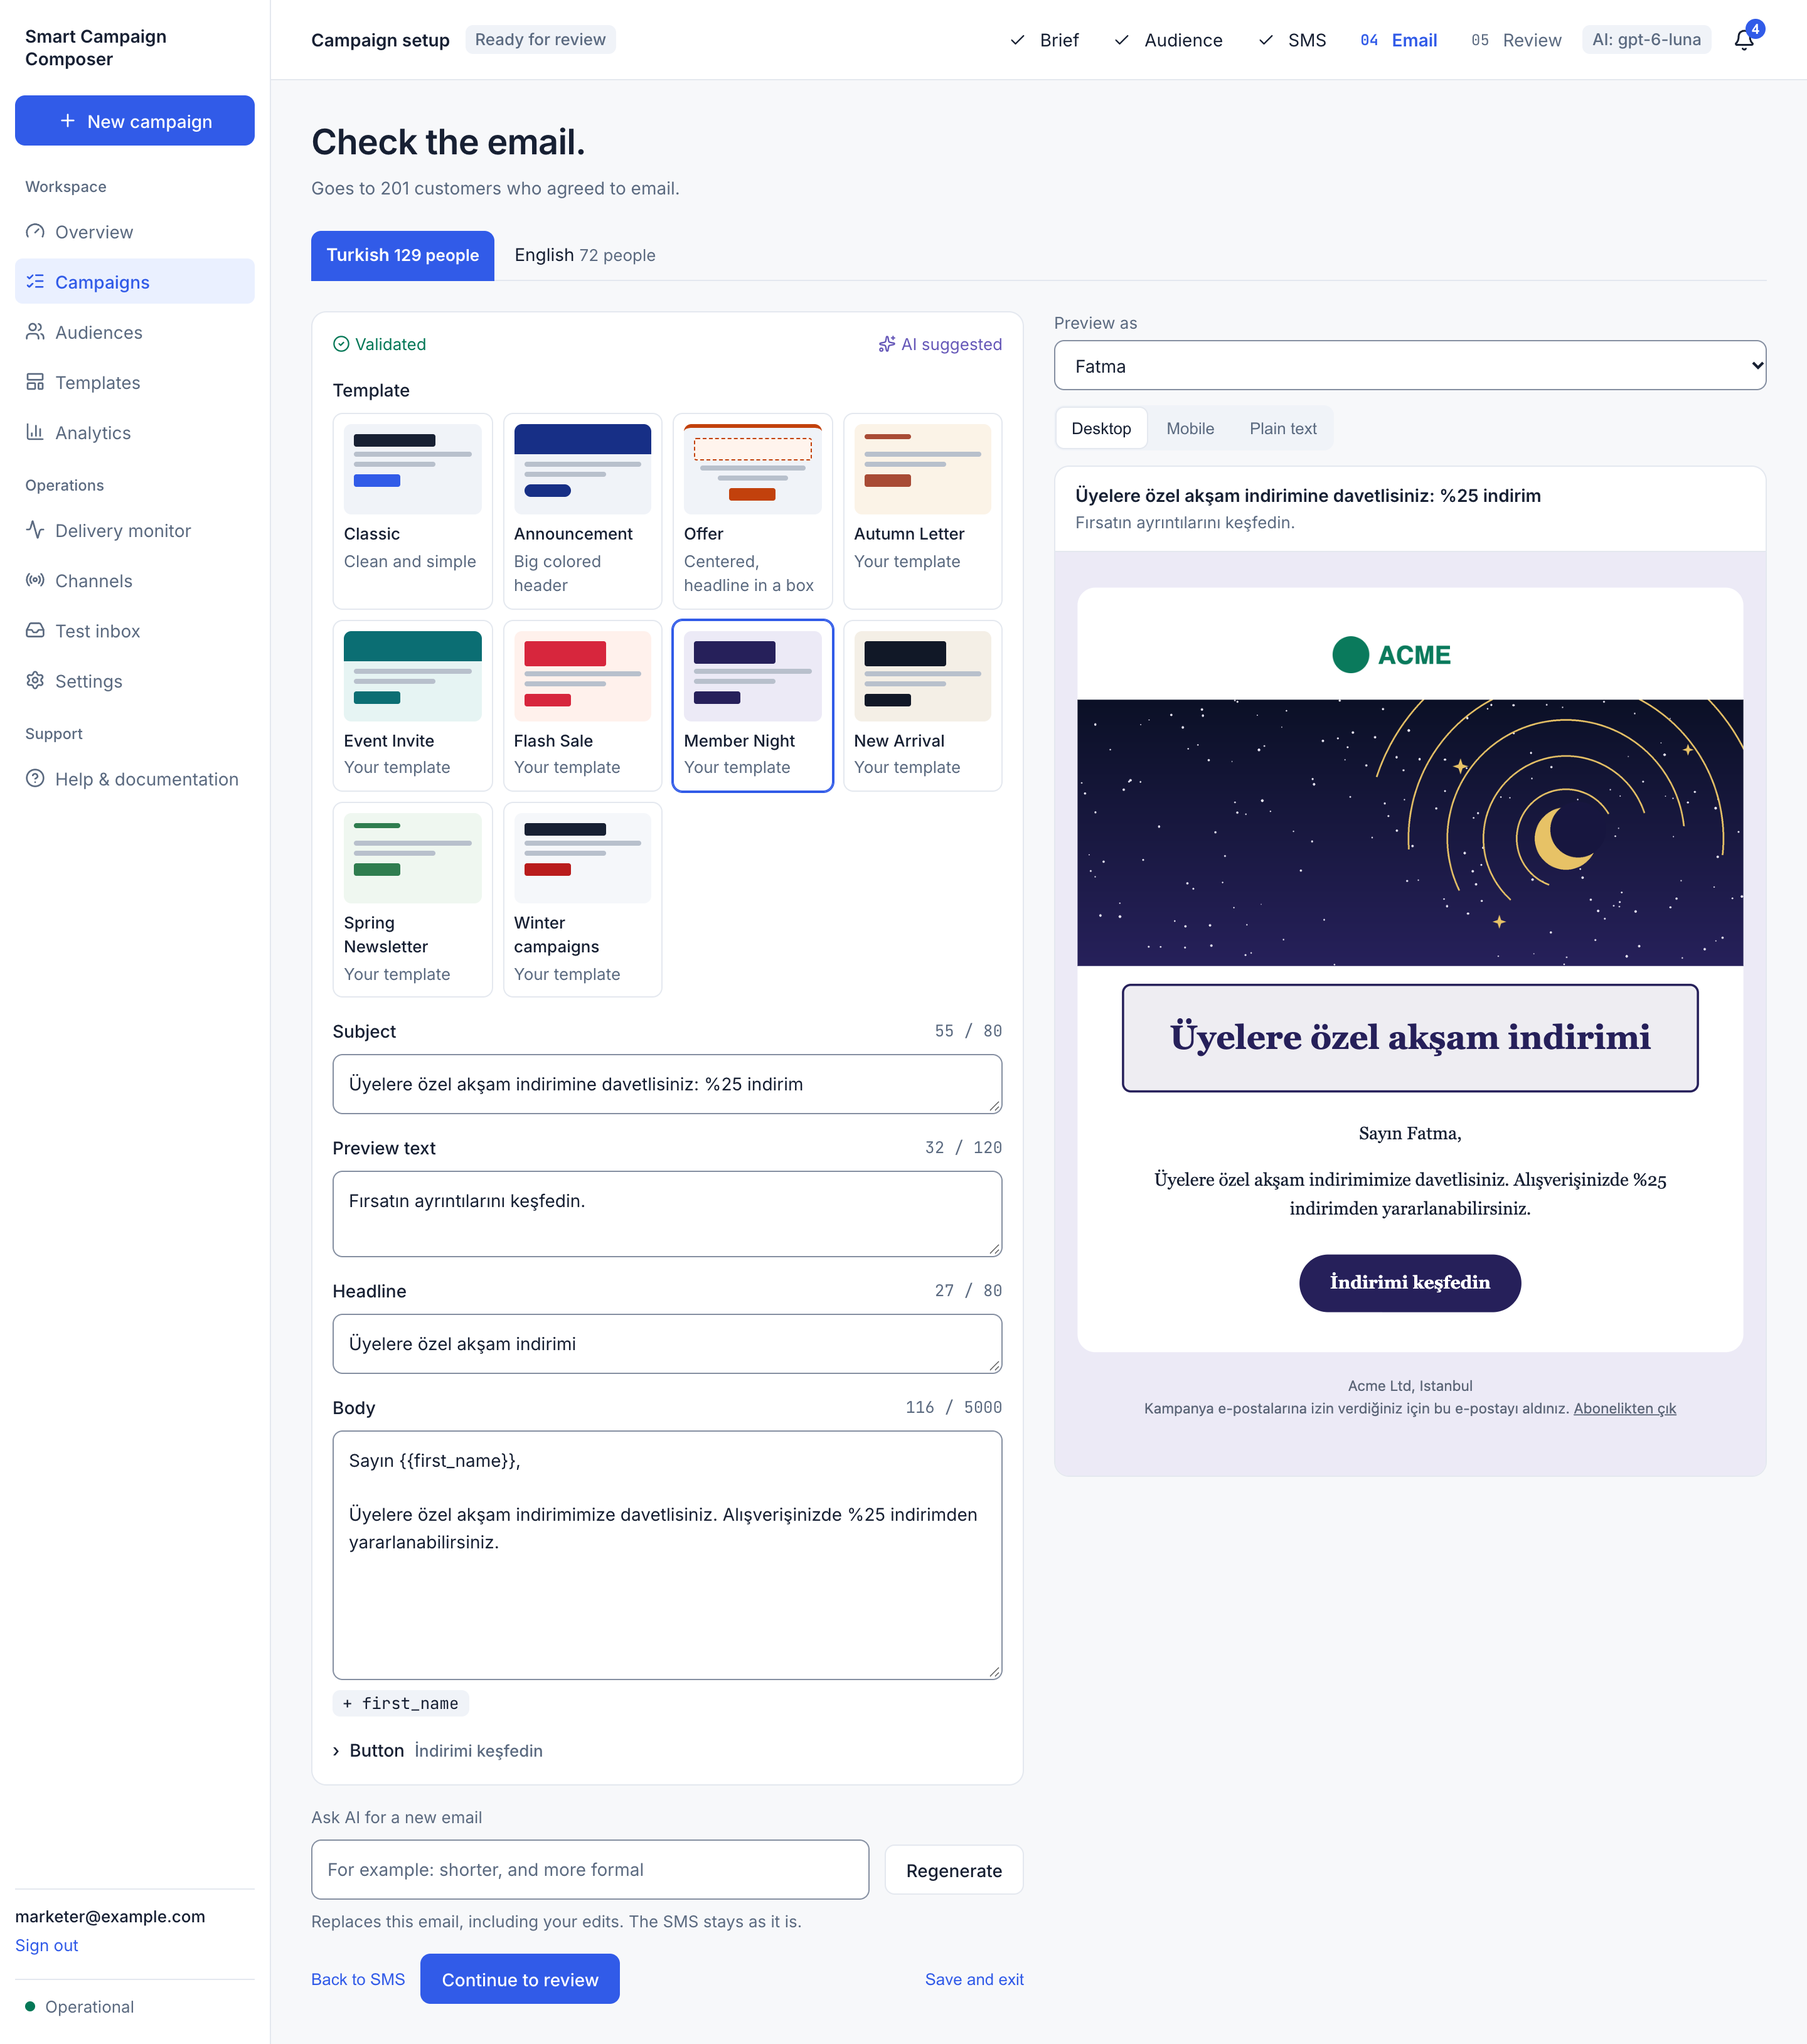
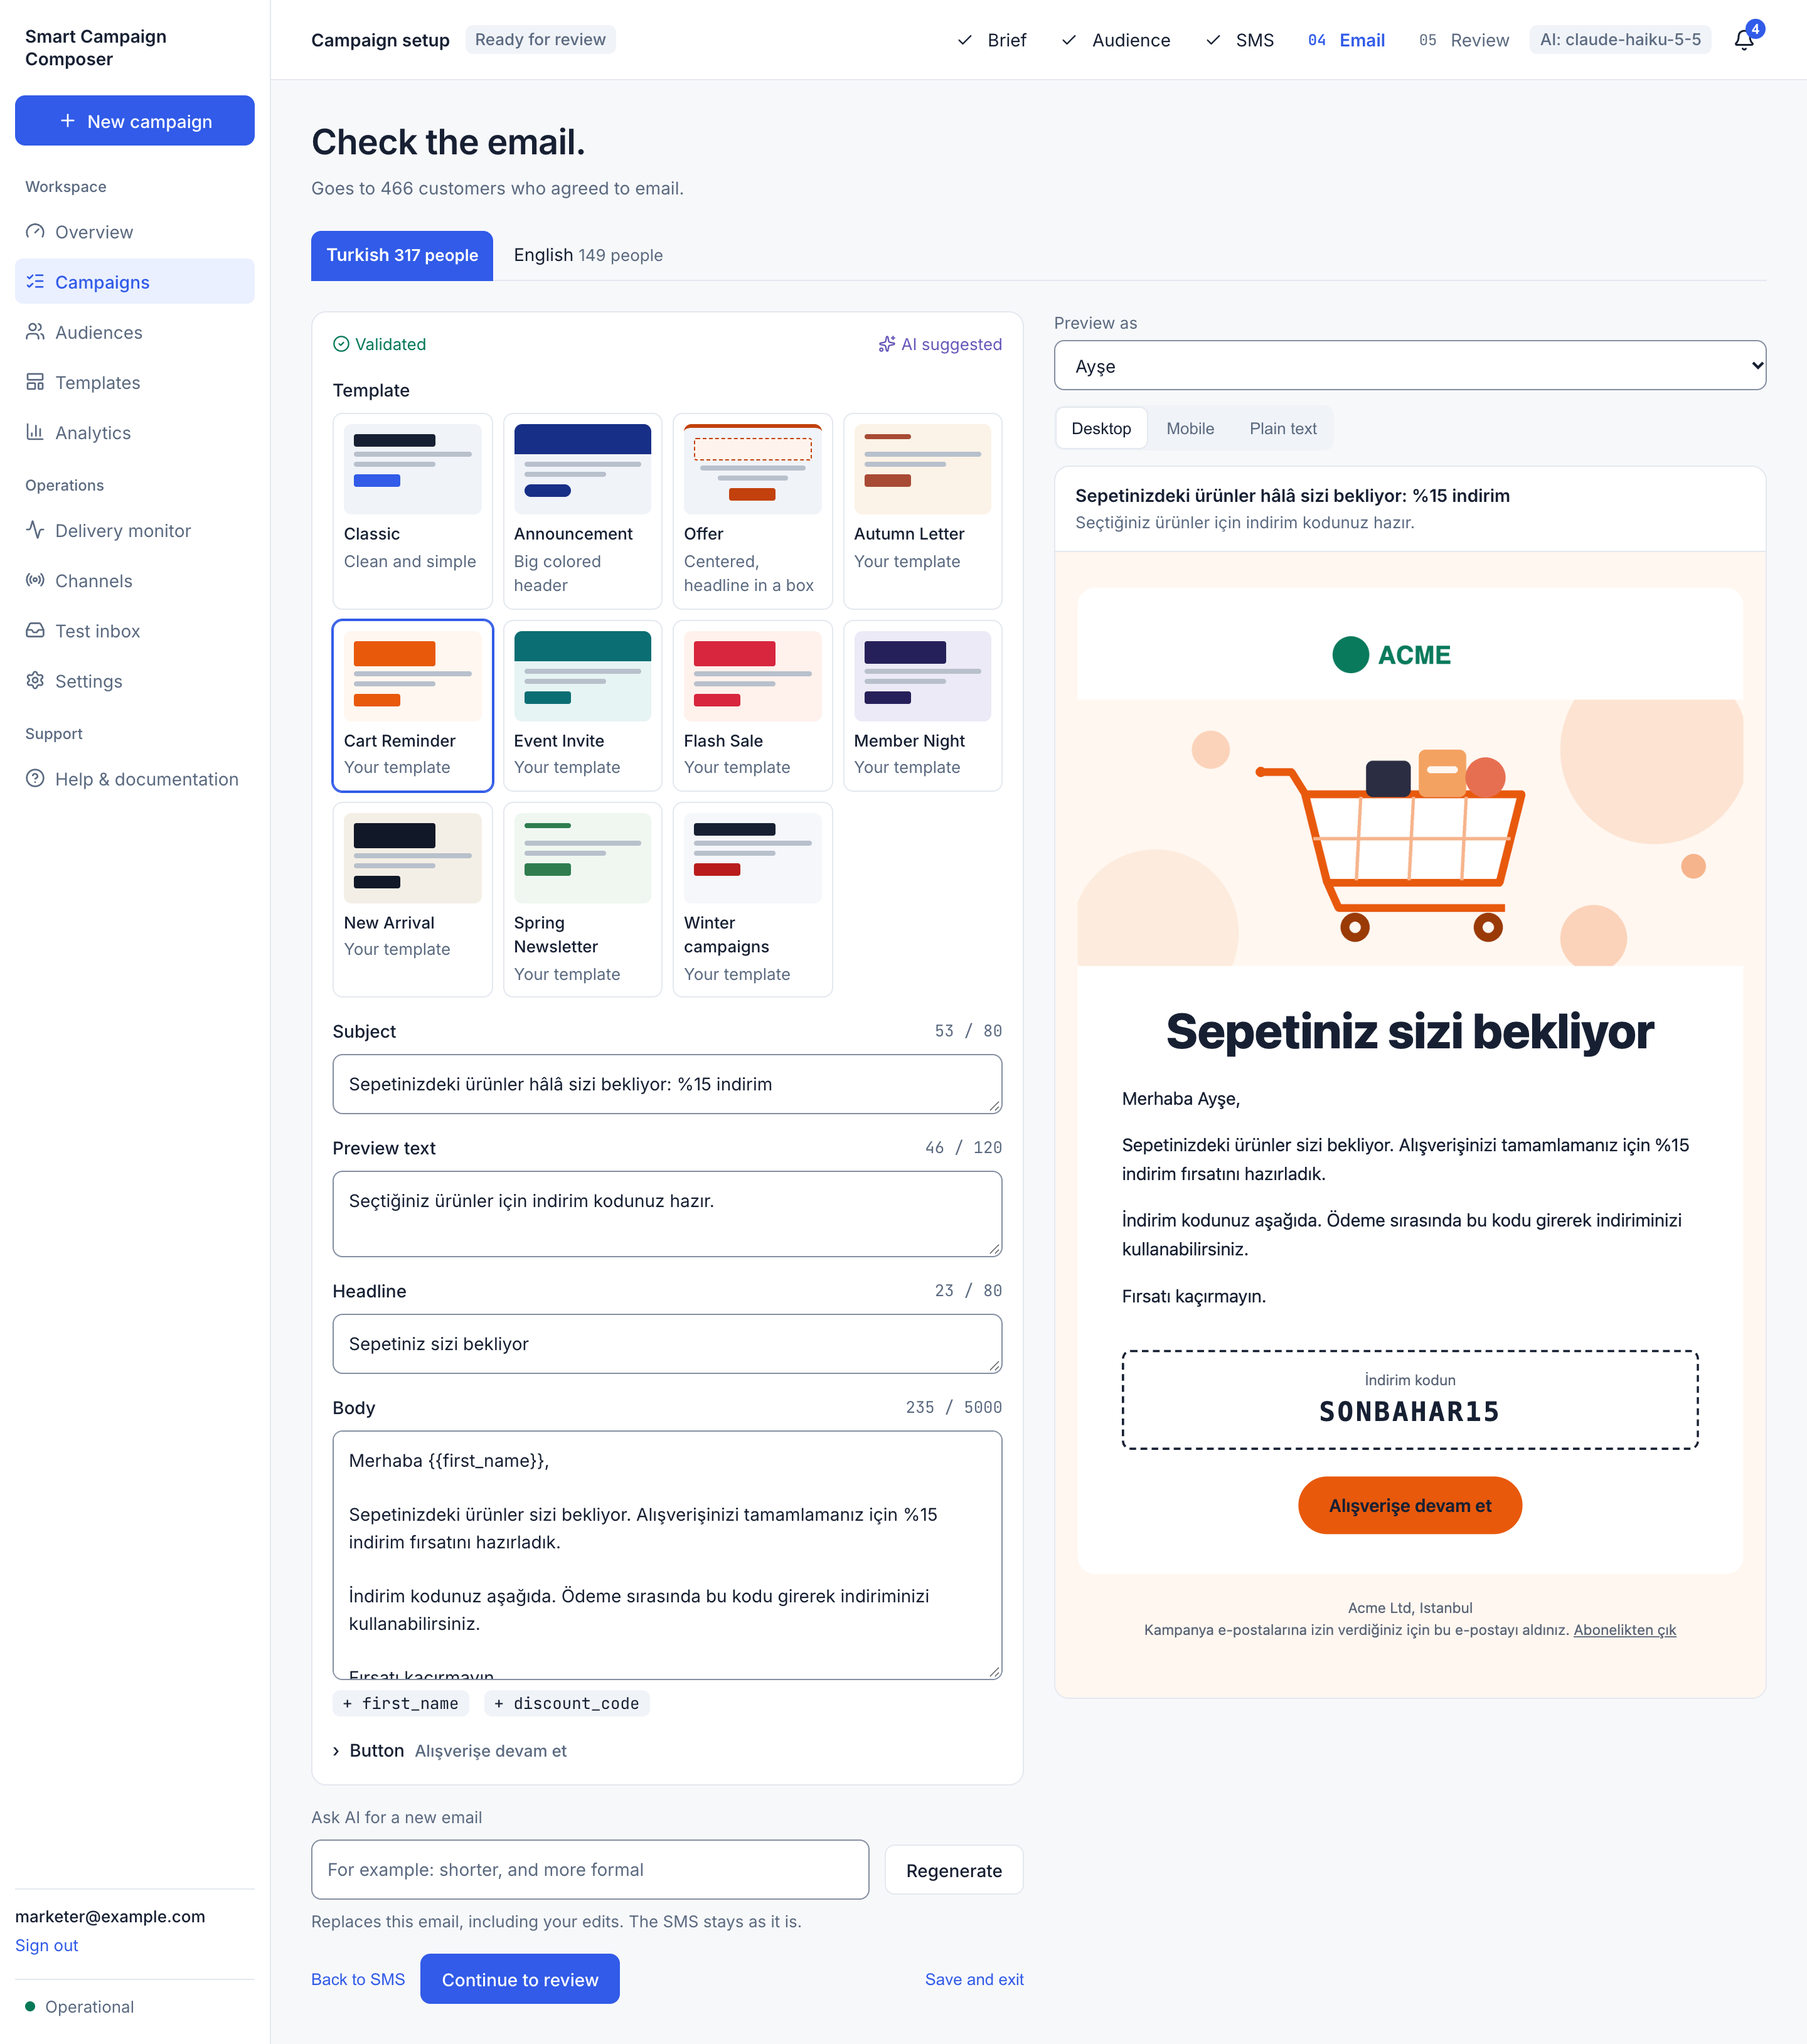
docs: refresh README screenshots with the discount code and short links

diff --git a/README.md b/README.md
@@ -38,7 +38,9 @@ Images go through one library, which redraws each upload and removes its hidden 
 
 Say who the campaign is for and what it should say, choose SMS, email or both, and start from the template you picked. A link in the brief becomes the email's button, and every SMS carries it as a short link of its own.
 
-![New campaign: a brief, both channels selected and the Member Night template chosen](docs/screenshots/brief.png)
+A discount code in the brief, here `SONBAHAR15`, is read and shown under Options; it can also be typed there. Every message carries it.
+
+![New campaign: a brief with a discount code and a link, both channels selected, the Cart Reminder template chosen and the code read from the brief under Options](docs/screenshots/brief.png)
 
 ### 3. Check who will receive it
 
@@ -52,13 +54,19 @@ The same step lists the languages the audience reads, with counts. Choosing them
 
 The AI writes the SMS and email in each chosen language. Every field can be edited, the template can be changed, and the preview shows the email as a named customer would see it. You can also ask for a new version in your own words.
 
-![Email step: Turkish and English tabs, the template picker, the editable fields and a preview of the Member Night email](docs/screenshots/email-content.png)
+The SMS writes the code as `{{discount_code}}` and the link as `{{link}}`. The backend fills both in when it sends, and each SMS gets its own short link, counted at its short length.
+
+![SMS step: Turkish and English tabs, the message with its first_name, discount_code and link variables, and a phone preview with the code and a short link filled in](docs/screenshots/sms-content.png)
+
+The email shows the code in a box of its own, in the reader's language, and its button opens the brief's link.
+
+![Email step: the template picker with Cart Reminder chosen, the editable fields and a preview with the SONBAHAR15 code box above the button](docs/screenshots/email-content.png)
 
 ### 5. Approve what goes out
 
 Review shows the final audience, each language's messages, when to send and a last set of checks. A person has to approve, and review asks them to open each language first. After approval the rules and messages cannot change.
 
-![Review step: audience, SMS and email previews, send timing and the checks before approval](docs/screenshots/review.png)
+![Review step: audience, SMS and email previews with the code and short link filled in, send timing and the checks before approval, including the discount code and the link](docs/screenshots/review.png)
 
 ### 6. Follow the send live
 
@@ -78,9 +86,13 @@ When the brief has a link, every SMS carries a short link of its own, and openin
 
 ![Short link opened card: 37 of 403 SMS had their short link opened](docs/screenshots/short-link-opened.png)
 
-The test inbox shows each message the mock provider accepted, as the customer would get it: here the Winter campaigns template in Turkish, with the name filled in. Nothing leaves your machine.
+The test inbox shows each message the mock provider accepted, as the customer would get it: here the Cart Reminder email in English, with the name and the code filled in, among the Turkish ones. Nothing leaves your machine.
 
-![Test inbox: a list of accepted emails in several languages and one open winter sale email in Turkish](docs/screenshots/test-inbox.png)
+![Test inbox: accepted emails in Turkish and English, and one open English cart reminder with the SONBAHAR15 code box and its button](docs/screenshots/test-inbox.png)
+
+Each SMS carries the code and a short link of its own.
+
+![Test inbox: accepted SMS in Turkish and English, and one open English SMS with the code and its short link](docs/screenshots/test-inbox-sms.png)
 
 ### 8. See the whole workspace
 
